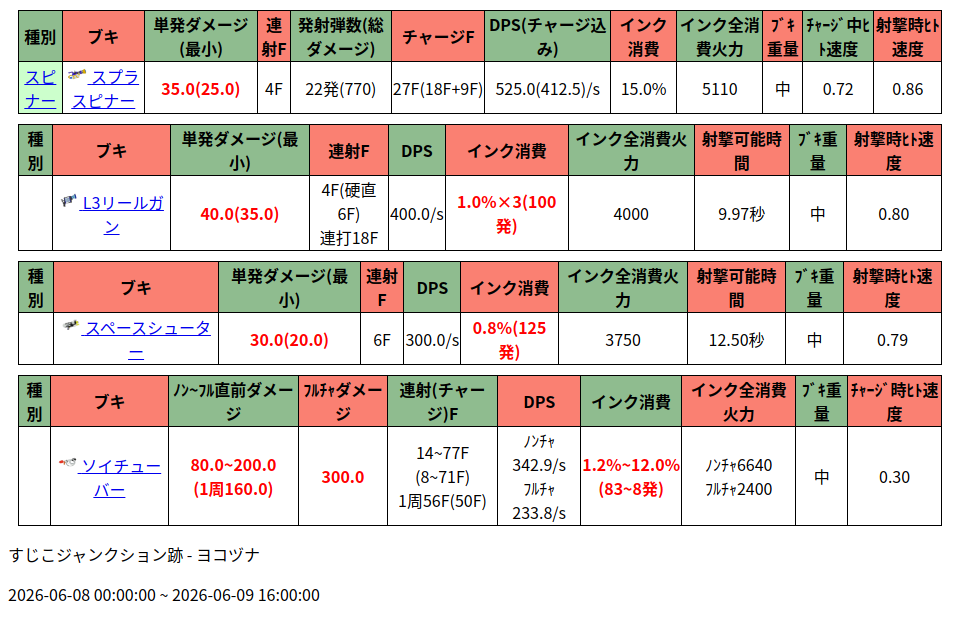
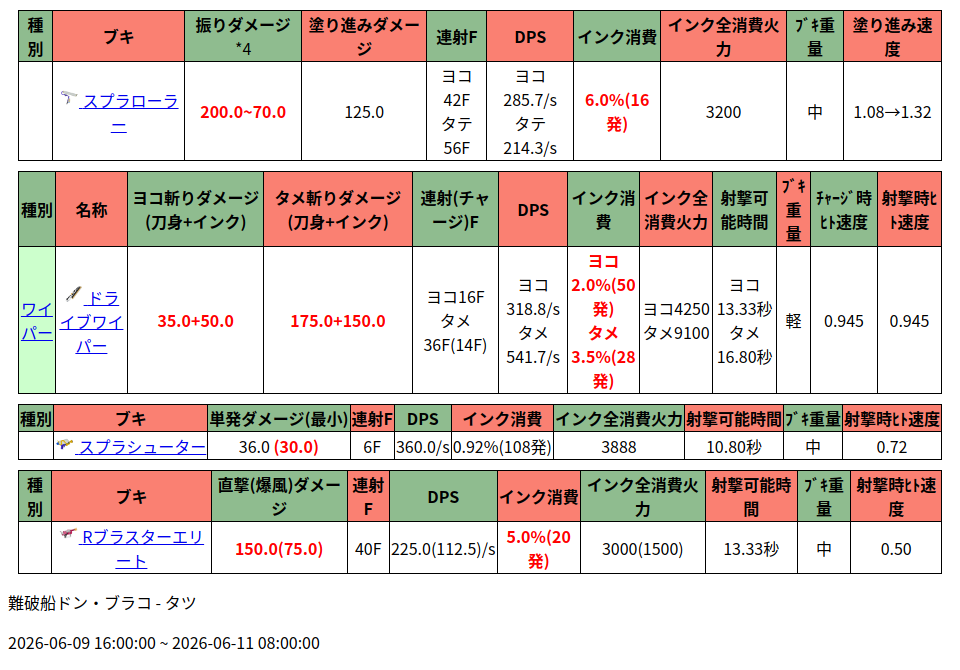
Automated changes by GitHub Actions

diff --git a/salmonRun.html b/salmonRun.html
@@ -1,1 +1,1 @@
-<head><meta charset="UTF-8"><style>table{border-collapse: collapse;border: 1px solid black;margin:10px;}td, th {border: 1px solid black;}</style></head><table><thead> <tr>  <td style="background-color:DarkSeaGreen; text-align:center;">   <strong>    種別   </strong>  </td>  <td style="background-color:Salmon; text-align:center;">   <strong>    ブキ   </strong>  </td>  <td style="background-color:DarkSeaGreen; text-align:center;">   <strong>    単発ダメージ(最小)   </strong>  </td>  <td style="background-color:Salmon; text-align:center;">   <strong>    連射F   </strong>  </td>  <td style="background-color:DarkSeaGreen; text-align:center;">   <strong>    発射弾数(総ダメージ)   </strong>  </td>  <td style="background-color:Salmon; text-align:center;">   <strong>    チャージF   </strong>  </td>  <td style="background-color:DarkSeaGreen; text-align:center;">   <strong>    DPS(チャージ込み)   </strong>  </td>  <td style="background-color:Salmon; text-align:center;">   <strong>    インク消費   </strong>  </td>  <td style="background-color:DarkSeaGreen; text-align:center;">   <strong>    インク全消費火力   </strong>  </td>  <td style="background-color:Salmon; text-align:center;">   <strong>    ﾌﾞｷ重量   </strong>  </td>  <td style="background-color:DarkSeaGreen; text-align:center;">   <strong>    ﾁｬｰｼﾞ中ﾋﾄ速度   </strong>  </td>  <td style="background-color:Salmon; text-align:center;">   <strong>    射撃時ﾋﾄ速度   </strong>  </td> </tr></thead><tr> <td rowspan="6" style="background-color:#ccffcc; text-align:center;">  <a class="rel-wiki-page" href="/splatoon3mix/%E3%83%96%E3%82%AD/%E3%82%B9%E3%83%94%E3%83%8A%E3%83%BC%E5%B1%9E" title="ブキ/スピナー属">   スピナー  </a> </td> <td style="text-align:center;">  <a data-lightbox="imageset" href="https://cdn.wikiwiki.jp/to/w/splatoon3mix/icon/::attach/%E3%82%B9%E3%83%97%E3%83%A9%E3%82%B9%E3%83%94%E3%83%8A%E3%83%BC.png?rev=a030420253495ac7d3cbada380741cd6&amp;t=20220906103818" title="スプラスピナー">   <img alt="スプラスピナー" height="20" loading="lazy" src="https://cdn.wikiwiki.jp/to/w/splatoon3mix/icon/::ref/%E3%82%B9%E3%83%97%E3%83%A9%E3%82%B9%E3%83%94%E3%83%8A%E3%83%BC.png?rev=a030420253495ac7d3cbada380741cd6&amp;t=20220906103818" title="スプラスピナー" width="20"/>  </a>  <a class="rel-wiki-page" href="/splatoon3mix/%E3%83%96%E3%82%AD/%E3%82%B9%E3%83%97%E3%83%A9%E3%82%B9%E3%83%94%E3%83%8A%E3%83%BC" title="ブキ/スプラスピナー">   スプラスピナー  </a> </td> <td style="text-align:center;">  <span class="wikicolor" style="color:Red">   <strong>    35.0(25.0)   </strong>  </span> </td> <td style="text-align:center;">  4F </td> <td style="text-align:center;">  22発(770) </td> <td style="text-align:center;">  27F(18F+9F) </td> <td style="text-align:center;">  525.0(412.5)/s </td> <td style="text-align:center;">  15.0% </td> <td style="text-align:center;">  5110 </td> <td style="text-align:center;">  中 </td> <td style="text-align:center;">  0.72 </td> <td style="text-align:center;">  0.86 </td></tr></table><table><thead> <tr>  <td style="background-color:DarkSeaGreen; text-align:center;">   <strong>    種別   </strong>  </td>  <td style="background-color:Salmon; text-align:center;">   <strong>    ブキ   </strong>  </td>  <td style="background-color:DarkSeaGreen; text-align:center;">   <strong>    単発ダメージ(最小)   </strong>  </td>  <td style="background-color:Salmon; text-align:center;">   <strong>    連射F   </strong>  </td>  <td style="background-color:DarkSeaGreen; text-align:center;">   <strong>    DPS   </strong>  </td>  <td style="background-color:Salmon; text-align:center;">   <strong>    インク消費   </strong>  </td>  <td style="background-color:DarkSeaGreen; text-align:center;">   <strong>    インク全消費火力   </strong>  </td>  <td style="background-color:Salmon; text-align:center;">   <strong>    射撃可能時間   </strong>  </td>  <td style="background-color:DarkSeaGreen; text-align:center;">   <strong>    ﾌﾞｷ重量   </strong>  </td>  <td style="background-color:Salmon; text-align:center;">   <strong>    射撃時ﾋﾄ速度   </strong>  </td> </tr></thead><tr><td></td> <td style="text-align:center;">  <a data-lightbox="imageset" href="https://cdn.wikiwiki.jp/to/w/splatoon3mix/icon/::attach/L3%E3%83%AA%E3%83%BC%E3%83%AB%E3%82%AC%E3%83%B3.png?rev=db5d9c167521f57ae951636b4e0c56e1&amp;t=20220905214609" title="L3リールガン">   <img alt="L3リールガン" height="20" loading="lazy" src="https://cdn.wikiwiki.jp/to/w/splatoon3mix/icon/::ref/L3%E3%83%AA%E3%83%BC%E3%83%AB%E3%82%AC%E3%83%B3.png?rev=db5d9c167521f57ae951636b4e0c56e1&amp;t=20220905214609" title="L3リールガン" width="20"/>  </a>  <a class="rel-wiki-page" href="/splatoon3mix/%E3%83%96%E3%82%AD/L3%E3%83%AA%E3%83%BC%E3%83%AB%E3%82%AC%E3%83%B3" title="ブキ/L3リールガン">   L3リールガン  </a> </td> <td style="text-align:center;">  <span class="wikicolor" style="color:Red">   <strong>    40.0(35.0)   </strong>  </span> </td> <td style="text-align:center;">  4F(硬直6F)  <br class="spacer"/>  連打18F </td> <td style="text-align:center;">  400.0/s </td> <td style="text-align:center;">  <span class="wikicolor" style="color:Red">   <strong>    1.0%×3(100発)   </strong>  </span> </td> <td style="text-align:center;">  4000 </td> <td style="text-align:center;">  9.97秒 </td> <td style="text-align:center;">  中 </td> <td style="text-align:center;">  0.80 </td></tr></table><table><thead> <tr>  <td style="background-color:DarkSeaGreen; text-align:center;">   <strong>    種別   </strong>  </td>  <td style="background-color:Salmon; text-align:center;">   <strong>    ブキ   </strong>  </td>  <td style="background-color:DarkSeaGreen; text-align:center;">   <strong>    単発ダメージ(最小)   </strong>  </td>  <td style="background-color:Salmon; text-align:center;">   <strong>    連射F   </strong>  </td>  <td style="background-color:DarkSeaGreen; text-align:center;">   <strong>    DPS   </strong>  </td>  <td style="background-color:Salmon; text-align:center;">   <strong>    インク消費   </strong>  </td>  <td style="background-color:DarkSeaGreen; text-align:center;">   <strong>    インク全消費火力   </strong>  </td>  <td style="background-color:Salmon; text-align:center;">   <strong>    射撃可能時間   </strong>  </td>  <td style="background-color:DarkSeaGreen; text-align:center;">   <strong>    ﾌﾞｷ重量   </strong>  </td>  <td style="background-color:Salmon; text-align:center;">   <strong>    射撃時ﾋﾄ速度   </strong>  </td> </tr></thead><tr><td></td> <td style="text-align:center;">  <a data-lightbox="imageset" href="https://cdn.wikiwiki.jp/to/w/splatoon3mix/icon/::attach/%E3%82%B9%E3%83%9A%E3%83%BC%E3%82%B9%E3%82%B7%E3%83%A5%E3%83%BC%E3%82%BF%E3%83%BC.png?rev=72407d7eeb73003b9c450c614e8f34c4&amp;t=20221201093754" title="スペースシューター">   <img alt="スペースシューター" height="20" loading="lazy" src="https://cdn.wikiwiki.jp/to/w/splatoon3mix/icon/::ref/%E3%82%B9%E3%83%9A%E3%83%BC%E3%82%B9%E3%82%B7%E3%83%A5%E3%83%BC%E3%82%BF%E3%83%BC.png?rev=72407d7eeb73003b9c450c614e8f34c4&amp;t=20221201093754" title="スペースシューター" width="20"/>  </a>  <a class="rel-wiki-page" href="/splatoon3mix/%E3%83%96%E3%82%AD/%E3%82%B9%E3%83%9A%E3%83%BC%E3%82%B9%E3%82%B7%E3%83%A5%E3%83%BC%E3%82%BF%E3%83%BC" title="ブキ/スペースシューター">   スペースシューター  </a> </td> <td style="text-align:center;">  <span class="wikicolor" style="color:Red">   <strong>    30.0(20.0)   </strong>  </span> </td> <td style="text-align:center;">  6F </td> <td style="text-align:center;">  300.0/s </td> <td style="text-align:center;">  <span class="wikicolor" style="color:Red">   <strong>    0.8%(125発)   </strong>  </span> </td> <td style="text-align:center;">  3750 </td> <td style="text-align:center;">  12.50秒 </td> <td style="text-align:center;">  中 </td> <td style="text-align:center;">  0.79 </td></tr></table><table><thead> <tr>  <td style="background-color:DarkSeaGreen; text-align:center;">   <strong>    種別   </strong>  </td>  <td style="background-color:Salmon; text-align:center;">   <strong>    ブキ   </strong>  </td>  <td style="background-color:DarkSeaGreen; text-align:center;">   <strong>    ﾉﾝ~ﾌﾙ直前ダメージ   </strong>  </td>  <td style="background-color:Salmon; text-align:center;">   <strong>    ﾌﾙﾁｬダメージ   </strong>  </td>  <td style="background-color:DarkSeaGreen; text-align:center;">   <strong>    連射(チャージ)F   </strong>  </td>  <td style="background-color:Salmon; text-align:center;">   <strong>    DPS   </strong>  </td>  <td style="background-color:DarkSeaGreen; text-align:center;">   <strong>    インク消費   </strong>  </td>  <td style="background-color:Salmon; text-align:center;">   <strong>    インク全消費火力   </strong>  </td>  <td style="background-color:DarkSeaGreen; text-align:center;">   <strong>    ﾌﾞｷ重量   </strong>  </td>  <td style="background-color:Salmon; text-align:center;">   <strong>    ﾁｬｰｼﾞ時ﾋﾄ速度   </strong>  </td> </tr></thead><tr><td></td> <td style="text-align:center;">  <a data-lightbox="imageset" href="https://cdn.wikiwiki.jp/to/w/splatoon3mix/icon/::attach/%E3%82%BD%E3%82%A4%E3%83%81%E3%83%A5%E3%83%BC%E3%83%90%E3%83%BC.png?rev=d3cc8b41a12db0aad13ccceef78290c1&amp;t=20220905220218" title="ソイチューバー">   <img alt="ソイチューバー" height="20" loading="lazy" src="https://cdn.wikiwiki.jp/to/w/splatoon3mix/icon/::ref/%E3%82%BD%E3%82%A4%E3%83%81%E3%83%A5%E3%83%BC%E3%83%90%E3%83%BC.png?rev=d3cc8b41a12db0aad13ccceef78290c1&amp;t=20220905220218" title="ソイチューバー" width="20"/>  </a>  <a class="rel-wiki-page" href="/splatoon3mix/%E3%83%96%E3%82%AD/%E3%82%BD%E3%82%A4%E3%83%81%E3%83%A5%E3%83%BC%E3%83%90%E3%83%BC" title="ブキ/ソイチューバー">   ソイチューバー  </a> </td> <td style="text-align:center;">  <span class="wikicolor" style="color:Red">   <strong>    80.0~200.0    <br class="spacer"/>    (1周160.0)   </strong>  </span> </td> <td style="text-align:center;">  <span class="wikicolor" style="color:Red">   <strong>    300.0   </strong>  </span> </td> <td style="text-align:center;">  14~77F  <br class="spacer"/>  (8~71F)  <br class="spacer"/>  1周56F(50F) </td> <td style="text-align:center;">  ﾉﾝﾁｬ342.9/s  <br class="spacer"/>  ﾌﾙﾁｬ233.8/s </td> <td style="text-align:center;">  <span class="wikicolor" style="color:Red">   <strong>    1.2%~12.0%    <br class="spacer"/>    (83~8発)   </strong>  </span> </td> <td style="text-align:center;">  ﾉﾝﾁｬ6640  <br class="spacer"/>  ﾌﾙﾁｬ2400 </td> <td style="text-align:center;">  中 </td> <td style="text-align:center;">  0.30 </td></tr></table><p>すじこジャンクション跡 - ヨコヅナ</p><p>2026-06-08 00:00:00 ~ 2026-06-09 16:00:00</p>
+<head><meta charset="UTF-8"><style>table{border-collapse: collapse;border: 1px solid black;margin:10px;}td, th {border: 1px solid black;}</style></head><table><thead> <tr>  <td style="background-color:DarkSeaGreen; text-align:center;">   <strong>    種別   </strong>  </td>  <td style="background-color:Salmon; text-align:center;">   <strong>    ブキ   </strong>  </td>  <td style="background-color:DarkSeaGreen; text-align:center;">   <strong>    振りダメージ   </strong>   <a class="note_super tooltip" data-tooltip-content='&lt;p&gt;距離によってダメージが変動し、時間経過によって最大0.5倍の減衰がかかる。&lt;/p&gt;&lt;div style="text-align: right;"&gt;&lt;a href="#notefoot_4"&gt;脚注 *4 へ&lt;/a&gt;&lt;/div&gt;' id="notetext_4">    *4   </a>  </td>  <td style="background-color:Salmon; text-align:center;">   <strong>    塗り進みダメージ   </strong>  </td>  <td style="background-color:DarkSeaGreen; text-align:center;">   <strong>    連射F   </strong>  </td>  <td style="background-color:Salmon; text-align:center;">   <strong>    DPS   </strong>  </td>  <td style="background-color:DarkSeaGreen; text-align:center;">   <strong>    インク消費   </strong>  </td>  <td style="background-color:Salmon; text-align:center;">   <strong>    インク全消費火力   </strong>  </td>  <td style="background-color:DarkSeaGreen; text-align:center;">   <strong>    ﾌﾞｷ重量   </strong>  </td>  <td style="background-color:Salmon; text-align:center;">   <strong>    塗り進み速度   </strong>  </td> </tr></thead><tr><td></td> <td style="text-align:center;">  <a data-lightbox="imageset" href="https://cdn.wikiwiki.jp/to/w/splatoon3mix/icon/::attach/%E3%82%B9%E3%83%97%E3%83%A9%E3%83%AD%E3%83%BC%E3%83%A9%E3%83%BC.png?rev=35e16e1b1929197aacb3b358faca81da&amp;t=20220905220143" title="スプラローラー">   <img alt="スプラローラー" height="20" loading="lazy" src="https://cdn.wikiwiki.jp/to/w/splatoon3mix/icon/::ref/%E3%82%B9%E3%83%97%E3%83%A9%E3%83%AD%E3%83%BC%E3%83%A9%E3%83%BC.png?rev=35e16e1b1929197aacb3b358faca81da&amp;t=20220905220143" title="スプラローラー" width="20"/>  </a>  <a class="rel-wiki-page" href="/splatoon3mix/%E3%83%96%E3%82%AD/%E3%82%B9%E3%83%97%E3%83%A9%E3%83%AD%E3%83%BC%E3%83%A9%E3%83%BC" title="ブキ/スプラローラー">   スプラローラー  </a> </td> <td style="text-align:center;">  <span class="wikicolor" style="color:Red">   <strong>    200.0~70.0   </strong>  </span> </td> <td style="text-align:center;">  125.0 </td> <td style="text-align:center;">  ヨコ42F  <br class="spacer"/>  タテ56F </td> <td style="text-align:center;">  ヨコ285.7/s  <br class="spacer"/>  タテ214.3/s </td> <td style="text-align:center;">  <span class="wikicolor" style="color:Red">   <strong>    6.0%(16発)   </strong>  </span> </td> <td style="text-align:center;">  3200 </td> <td style="text-align:center;">  中 </td> <td style="text-align:center;">  1.08→1.32 </td></tr></table><table><thead> <tr>  <td style="background-color:DarkSeaGreen; text-align:center;">   <strong>    種別   </strong>  </td>  <td style="background-color:Salmon; text-align:center;">   <strong>    名称   </strong>  </td>  <td style="background-color:DarkSeaGreen; text-align:center;">   <strong>    ヨコ斬りダメージ(刀身+インク)   </strong>  </td>  <td style="background-color:Salmon; text-align:center;">   <strong>    タメ斬りダメージ(刀身+インク)   </strong>  </td>  <td style="background-color:DarkSeaGreen; text-align:center;">   <strong>    連射(チャージ)F   </strong>  </td>  <td style="background-color:Salmon; text-align:center;">   <strong>    DPS   </strong>  </td>  <td style="background-color:DarkSeaGreen; text-align:center;">   <strong>    インク消費   </strong>  </td>  <td style="background-color:Salmon; text-align:center;">   <strong>    インク全消費火力   </strong>  </td>  <td style="background-color:DarkSeaGreen; text-align:center;">   <strong>    射撃可能時間   </strong>  </td>  <td style="background-color:Salmon; text-align:center;">   <strong>    ﾌﾞｷ重量   </strong>  </td>  <td style="background-color:DarkSeaGreen; text-align:center;">   <strong>    ﾁｬｰｼﾞ時ﾋﾄ速度   </strong>  </td>  <td style="background-color:Salmon; text-align:center;">   <strong>    射撃時ﾋﾄ速度   </strong>  </td> </tr></thead><tr> <td rowspan="4" style="background-color:#ccffcc; text-align:center;">  <a class="rel-wiki-page" href="/splatoon3mix/%E3%83%96%E3%82%AD/%E3%83%AF%E3%82%A4%E3%83%91%E3%83%BC%E5%B1%9E" title="ブキ/ワイパー属">   ワイパー  </a> </td> <td style="text-align:center;">  <a data-lightbox="imageset" href="https://cdn.wikiwiki.jp/to/w/splatoon3mix/icon/::attach/%E3%83%89%E3%83%A9%E3%82%A4%E3%83%96%E3%83%AF%E3%82%A4%E3%83%91%E3%83%BC.png?rev=b6018aed936af11ce2336c8c55f7d7d8&amp;t=20220906104603" title="ドライブワイパー">   <img alt="ドライブワイパー" height="20" loading="lazy" src="https://cdn.wikiwiki.jp/to/w/splatoon3mix/icon/::ref/%E3%83%89%E3%83%A9%E3%82%A4%E3%83%96%E3%83%AF%E3%82%A4%E3%83%91%E3%83%BC.png?rev=b6018aed936af11ce2336c8c55f7d7d8&amp;t=20220906104603" title="ドライブワイパー" width="20"/>  </a>  <a class="rel-wiki-page" href="/splatoon3mix/%E3%83%96%E3%82%AD/%E3%83%89%E3%83%A9%E3%82%A4%E3%83%96%E3%83%AF%E3%82%A4%E3%83%91%E3%83%BC" title="ブキ/ドライブワイパー">   ドライブワイパー  </a> </td> <td style="text-align:center;">  <span class="wikicolor" style="color:Red">   <strong>    35.0+50.0   </strong>  </span> </td> <td style="text-align:center;">  <span class="wikicolor" style="color:Red">   <strong>    175.0+150.0   </strong>  </span> </td> <td style="text-align:center;">  ヨコ16F  <br class="spacer"/>  タメ36F(14F) </td> <td style="text-align:center;">  ヨコ318.8/s  <br class="spacer"/>  タメ541.7/s </td> <td style="text-align:center;">  <span class="wikicolor" style="color:Red">   <strong>    ヨコ2.0%(50発)    <br class="spacer"/>    タメ3.5%(28発)   </strong>  </span> </td> <td style="text-align:center;">  ヨコ4250  <br class="spacer"/>  タメ9100 </td> <td style="text-align:center;">  ヨコ13.33秒  <br class="spacer"/>  タメ16.80秒 </td> <td style="text-align:center;">  軽 </td> <td style="text-align:center;">  0.945 </td> <td style="text-align:center;">  0.945 </td></tr></table><table><thead> <tr>  <td style="background-color:DarkSeaGreen; text-align:center;">   <strong>    種別   </strong>  </td>  <td style="background-color:Salmon; text-align:center;">   <strong>    ブキ   </strong>  </td>  <td style="background-color:DarkSeaGreen; text-align:center;">   <strong>    単発ダメージ(最小)   </strong>  </td>  <td style="background-color:Salmon; text-align:center;">   <strong>    連射F   </strong>  </td>  <td style="background-color:DarkSeaGreen; text-align:center;">   <strong>    DPS   </strong>  </td>  <td style="background-color:Salmon; text-align:center;">   <strong>    インク消費   </strong>  </td>  <td style="background-color:DarkSeaGreen; text-align:center;">   <strong>    インク全消費火力   </strong>  </td>  <td style="background-color:Salmon; text-align:center;">   <strong>    射撃可能時間   </strong>  </td>  <td style="background-color:DarkSeaGreen; text-align:center;">   <strong>    ﾌﾞｷ重量   </strong>  </td>  <td style="background-color:Salmon; text-align:center;">   <strong>    射撃時ﾋﾄ速度   </strong>  </td> </tr></thead><tr><td></td> <td style="text-align:center;">  <a data-lightbox="imageset" href="https://cdn.wikiwiki.jp/to/w/splatoon3mix/icon/::attach/%E3%82%B9%E3%83%97%E3%83%A9%E3%82%B7%E3%83%A5%E3%83%BC%E3%82%BF%E3%83%BC.png?rev=4d70126a9b68e76b463e182d3d42218d&amp;t=20220905214644" title="スプラシューター">   <img alt="スプラシューター" height="20" loading="lazy" src="https://cdn.wikiwiki.jp/to/w/splatoon3mix/icon/::ref/%E3%82%B9%E3%83%97%E3%83%A9%E3%82%B7%E3%83%A5%E3%83%BC%E3%82%BF%E3%83%BC.png?rev=4d70126a9b68e76b463e182d3d42218d&amp;t=20220905214644" title="スプラシューター" width="20"/>  </a>  <a class="rel-wiki-page" href="/splatoon3mix/%E3%83%96%E3%82%AD/%E3%82%B9%E3%83%97%E3%83%A9%E3%82%B7%E3%83%A5%E3%83%BC%E3%82%BF%E3%83%BC" title="ブキ/スプラシューター">   スプラシューター  </a> </td> <td style="text-align:center;">  36.0  <span class="wikicolor" style="color:Red">   <strong>    (30.0)   </strong>  </span> </td> <td style="text-align:center;">  6F </td> <td style="text-align:center;">  360.0/s </td> <td style="text-align:center;">  0.92%(108発) </td> <td style="text-align:center;">  3888 </td> <td style="text-align:center;">  10.80秒 </td> <td style="text-align:center;">  中 </td> <td style="text-align:center;">  0.72 </td></tr></table><table><thead> <tr>  <td style="background-color:DarkSeaGreen; text-align:center;">   <strong>    種別   </strong>  </td>  <td style="background-color:Salmon; text-align:center;">   <strong>    ブキ   </strong>  </td>  <td style="background-color:DarkSeaGreen; text-align:center;">   <strong>    直撃(爆風)ダメージ   </strong>  </td>  <td style="background-color:Salmon; text-align:center;">   <strong>    連射F   </strong>  </td>  <td style="background-color:DarkSeaGreen; text-align:center;">   <strong>    DPS   </strong>  </td>  <td style="background-color:Salmon; text-align:center;">   <strong>    インク消費   </strong>  </td>  <td style="background-color:DarkSeaGreen; text-align:center;">   <strong>    インク全消費火力   </strong>  </td>  <td style="background-color:Salmon; text-align:center;">   <strong>    射撃可能時間   </strong>  </td>  <td style="background-color:DarkSeaGreen; text-align:center;">   <strong>    ﾌﾞｷ重量   </strong>  </td>  <td style="background-color:Salmon; text-align:center;">   <strong>    射撃時ﾋﾄ速度   </strong>  </td> </tr></thead><tr><td></td> <td style="text-align:center;">  <a data-lightbox="imageset" href="https://cdn.wikiwiki.jp/to/w/splatoon3mix/icon/::attach/R%E3%83%96%E3%83%A9%E3%82%B9%E3%82%BF%E3%83%BC%E3%82%A8%E3%83%AA%E3%83%BC%E3%83%88.png?rev=fcce0157a057946bd3cffed1dc249664&amp;t=20230918121455" title="Rブラスターエリート">   <img alt="Rブラスターエリート" height="20" loading="lazy" src="https://cdn.wikiwiki.jp/to/w/splatoon3mix/icon/::ref/R%E3%83%96%E3%83%A9%E3%82%B9%E3%82%BF%E3%83%BC%E3%82%A8%E3%83%AA%E3%83%BC%E3%83%88.png?rev=fcce0157a057946bd3cffed1dc249664&amp;t=20230918121455" title="Rブラスターエリート" width="20"/>  </a>  <a class="rel-wiki-page" href="/splatoon3mix/%E3%83%96%E3%82%AD/R%E3%83%96%E3%83%A9%E3%82%B9%E3%82%BF%E3%83%BC%E3%82%A8%E3%83%AA%E3%83%BC%E3%83%88" title="ブキ/Rブラスターエリート">   Rブラスターエリート  </a> </td> <td style="text-align:center;">  <span class="wikicolor" style="color:Red">   <strong>    150.0(75.0)   </strong>  </span> </td> <td style="text-align:center;">  40F </td> <td style="text-align:center;">  225.0(112.5)/s </td> <td style="text-align:center;">  <span class="wikicolor" style="color:Red">   <strong>    5.0%(20発)   </strong>  </span> </td> <td style="text-align:center;">  3000(1500) </td> <td style="text-align:center;">  13.33秒 </td> <td style="text-align:center;">  中 </td> <td style="text-align:center;">  0.50 </td></tr></table><p>難破船ドン・ブラコ - タツ</p><p>2026-06-09 16:00:00 ~ 2026-06-11 08:00:00</p>